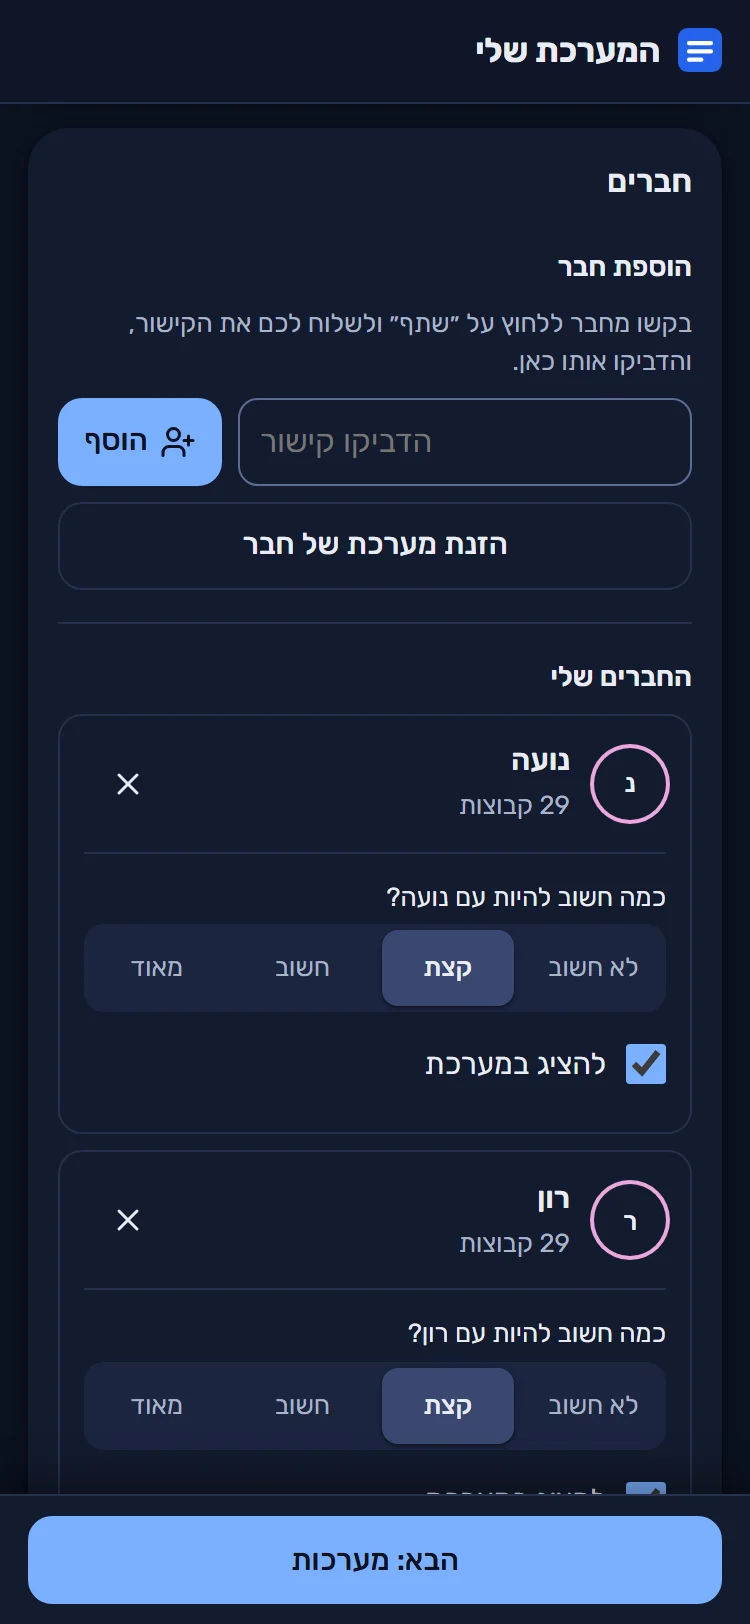
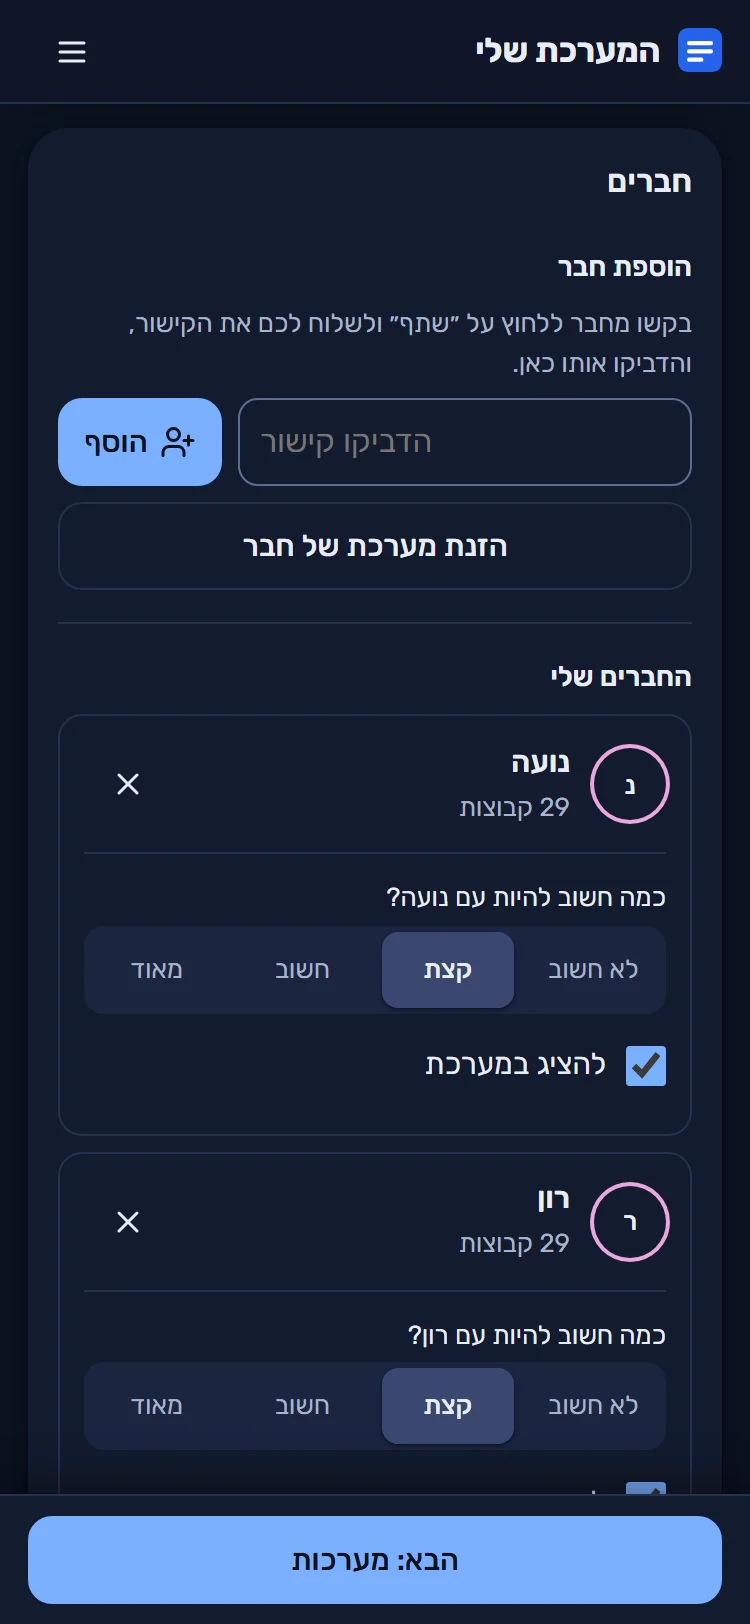
docs(media): fresh README and guide screenshots, with the build-or-edit choice and an edit proposal
- scripts/readme-shots.mjs: the first-visit shots pick "build" first (the mode choice now comes before the identity questions); new
  shots 00-start-mode-phone (the choice) and 09-edit-phone (semester A of alternative 1 with one course in a worse group, goal "fewer
  gaps", the proposal on Tuesday). The edit shot is refused unless the page shows exactly what the alt text says.
- All screenshots, the banner and the demo GIFs regenerated from the current code; ?v= bumped to 20261120.
- README shows the two new images; GUIDE gains the mode choice in "before you start" and a section on improving an existing timetable.

Reviewed by Codex (2 findings: alt quoting, a capture that could drift from its alt text; both fixed, re-check clean).

diff --git a/docs/GUIDE.md b/docs/GUIDE.md
@@ -8,16 +8,20 @@
 
 ## לפני שמתחילים: מסלול ושנה
 
-מאשרים את תנאי השימוש ועונים על שתי שאלות, כל אחת במסך משלה: באיזה מסלול (תוכנית, יום או ערב; שום מסלול לא נבחר מראש), ובאיזו שנת לימודים. "שינוי" מחזיר לבחירת המסלול.
+מאשרים את תנאי השימוש ובוחרים מה רוצים לעשות: לבנות מערכת חדשה, או לשפר מערכת שכבר יש לכם ([שיפור מערכת קיימת](#שיפור-מערכת-קיימת)). אפשר לעבור ביניהם בכל רגע מהתפריט ☰ בראש הדף. בבנייה עונים על שתי שאלות, כל אחת במסך משלה: באיזה מסלול (תוכנית, יום או ערב; שום מסלול לא נבחר מראש), ובאיזו שנת לימודים. "שינוי" מחזיר לבחירת המסלול.
 
 <p align="center">
 <picture>
-  <source media="(prefers-color-scheme: dark)" srcset="media/05-start-track-phone-dark.webp?v=20261102">
-  <img src="media/05-start-track-phone.webp?v=20261102" alt="שאלה 1 מתוך 2, מה המסלול שלך: כפתור גדול לכל תוכנית, יום וערב" width="240">
+  <source media="(prefers-color-scheme: dark)" srcset="media/00-start-mode-phone-dark.webp?v=20261120">
+  <img src="media/00-start-mode-phone.webp?v=20261120" alt="מה רוצים לעשות: לבנות מערכת חדשה, או לשפר מערכת שכבר יש לי" width="240">
 </picture>
 <picture>
-  <source media="(prefers-color-scheme: dark)" srcset="media/06-start-year-phone-dark.webp?v=20261102">
-  <img src="media/06-start-year-phone.webp?v=20261102" alt="שאלה 2 מתוך 2, באיזו שנה: המסלול שנבחר עם כפתור שינוי, וכפתורים לשנים א׳ עד ד׳" width="240">
+  <source media="(prefers-color-scheme: dark)" srcset="media/05-start-track-phone-dark.webp?v=20261120">
+  <img src="media/05-start-track-phone.webp?v=20261120" alt="שאלה 1 מתוך 2, מה המסלול שלך: כפתור גדול לכל תוכנית, יום וערב" width="240">
+</picture>
+<picture>
+  <source media="(prefers-color-scheme: dark)" srcset="media/06-start-year-phone-dark.webp?v=20261120">
+  <img src="media/06-start-year-phone.webp?v=20261120" alt="שאלה 2 מתוך 2, באיזו שנה: המסלול שנבחר עם כפתור שינוי, וכפתורים לשנים א׳ עד ד׳" width="240">
 </picture>
 </p>
 
@@ -28,8 +32,8 @@
 הפרופיל וההתקדמות בתואר, והצעה לייבא את גיליון הציונים הרשמי מהפורטל (PDF). הגיליון מסמן מה עברתם, במה נכשלתם ומאילו קורסים קיבלתם פטור. מי שמעדיף לוחץ "הזנה ידנית" ומסמן בעצמו את הקורסים, לפי שנה.
 
 <picture>
-  <source media="(prefers-color-scheme: dark)" srcset="media/07-start-entry-desktop-dark.webp?v=20261102">
-  <img src="media/07-start-entry-desktop.webp?v=20261102" alt="שלב 1, המצב שלי: כרטיס פרופיל, כרטיס התקדמות, ומתחתם השאלה איך מסמנים מה עברתם עם הכפתורים ייבוא מגיליון ציונים והזנה ידנית" width="720">
+  <source media="(prefers-color-scheme: dark)" srcset="media/07-start-entry-desktop-dark.webp?v=20261120">
+  <img src="media/07-start-entry-desktop.webp?v=20261120" alt="שלב 1, המצב שלי: כרטיס פרופיל, כרטיס התקדמות, ומתחתם השאלה איך מסמנים מה עברתם עם הכפתורים ייבוא מגיליון ציונים והזנה ידנית" width="720">
 </picture>
 
 ## שלב 2: קורסים
@@ -38,8 +42,8 @@
 
 <p align="center">
 <picture>
-  <source media="(prefers-color-scheme: dark)" srcset="media/08-courses-phone-dark.webp?v=20261102">
-  <img src="media/08-courses-phone.webp?v=20261102" alt="שלב 2, הקורסים שלי בטלפון: לכל קורס חובה, אולי או לא, בחירת סמסטר, וכמה קורסים הוא פותח" width="260">
+  <source media="(prefers-color-scheme: dark)" srcset="media/08-courses-phone-dark.webp?v=20261120">
+  <img src="media/08-courses-phone.webp?v=20261120" alt="שלב 2, הקורסים שלי בטלפון: לכל קורס חובה, אולי או לא, בחירת סמסטר, וכמה קורסים הוא פותח" width="260">
 </picture>
 </p>
 
@@ -49,8 +53,8 @@
 
 <p align="center">
 <picture>
-  <source media="(prefers-color-scheme: dark)" srcset="media/04-friends-phone-dark.webp?v=20261102">
-  <img src="media/04-friends-phone.webp?v=20261102" alt="החברים בשלב 3 בטלפון: שדה להדבקת קישור, כפתור להזנת מערכת של חבר, ושני חברים עם מידת החשיבות של כל אחד" width="260">
+  <source media="(prefers-color-scheme: dark)" srcset="media/04-friends-phone-dark.webp?v=20261120">
+  <img src="media/04-friends-phone.webp?v=20261120" alt="החברים בשלב 3 בטלפון: שדה להדבקת קישור, כפתור להזנת מערכת של חבר, ושני חברים עם מידת החשיבות של כל אחד" width="260">
 </picture>
 </p>
 
@@ -59,14 +63,14 @@
 המערכות נבנות מיד. מדפדפים בין החלופות עם החצים בראש הלוח, ולחיצה על שיעור פותחת פרטים ונעיצה. בטלפון רואים יום אחד בכל פעם.
 
 <picture>
-  <source media="(prefers-color-scheme: dark)" srcset="media/01-week-desktop-dark.webp?v=20261102">
-  <img src="media/01-week-desktop.webp?v=20261102" alt="שלב 4, מערכות: לוח שבועי של חלופה 1 מתוך 10 מתחת לסרגל ארבעת השלבים, שיעורים בצבע לכל קורס, ושיעורים משותפים עם חברים מסומנים בשמם" width="720">
+  <source media="(prefers-color-scheme: dark)" srcset="media/01-week-desktop-dark.webp?v=20261120">
+  <img src="media/01-week-desktop.webp?v=20261120" alt="שלב 4, מערכות: לוח שבועי של חלופה 1 מתוך 10 מתחת לסרגל ארבעת השלבים, שיעורים בצבע לכל קורס, ושיעורים משותפים עם חברים מסומנים בשמם" width="720">
 </picture>
 
 <p align="center">
 <picture>
-  <source media="(prefers-color-scheme: dark)" srcset="media/02-week-phone-dark.webp?v=20261102">
-  <img src="media/02-week-phone.webp?v=20261102" alt="המערכת בטלפון: יום אחד עם שיעורים משותפים עם חברים, החצים לחלופות בראש המסך וסרגל פעולות בתחתית" width="260">
+  <source media="(prefers-color-scheme: dark)" srcset="media/02-week-phone-dark.webp?v=20261120">
+  <img src="media/02-week-phone.webp?v=20261120" alt="המערכת בטלפון: יום אחד עם שיעורים משותפים עם חברים, החצים לחלופות בראש המסך וסרגל פעולות בתחתית" width="260">
 </picture>
 </p>
 
@@ -75,6 +79,23 @@
 **הפרדת הרצאה ותרגול:** מי שמסמן "להציג גם הרצאה ותרגול מופרדים" מקבל, אחרי החלופות הרגילות, גם חלופות שמפרידות ביניהם, ואז יכולות להיות יותר מ-10.
 
 **הצג לפי** נותן ארבע אפשרויות: מאוזן (לפי ההעדפות שלכם), הכי הרבה נ״ז, הכי הרבה עם חברים, ופותחת הכי הרבה קורסי המשך. הבחירה מסדרת את המערכות, אבל בתכנון שנה מלאה (שני סמסטרים) מערכת עם פחות קורסי חובה חסרים תמיד באה קודם. "הכי הרבה עם חברים" עובד רק כשיש חבר אחד לפחות שמוצג במערכת, ואחרת הסדר הוא "מאוזן".
+
+## שיפור מערכת קיימת
+
+למי שכבר יש מערכת ורוצה לשנות רק חלק ממנה, למשל לפנות יום או לסיים מוקדם יותר.
+
+1. **המערכת שלי:** טוענים את המערכת מקובץ האקסל של אפקה-נט, מ-PDF או צילום מהמתכנן של המכללה, או בוחרים קורסים וקבוצות ידנית. כל שורה שהכלי לא בטוח בה מופיעה "לבדיקה", וממשיכים כשכולן אושרו או תוקנו. מסמנים אם המערכת כבר רשומה במכללה.
+2. **שינויים:** לוחצים על שיעור כדי לסמן שהקורס יכול לזוז, להחליף קבוצה או להוריד אותו, ומוסיפים קורס אם רוצים. בוחרים מטרה (לפנות יום, פחות חלונות, לסיים עד שעה) ולוחצים "חפש הצעות". בלי סימון, הכלי מנסה להזיז כל קורס לבד.
+3. **הצעות:** כל הצעה אומרת מה הרווחתם ומה זז, ובלוח מסומן איפה השיעור היה ולאן עבר. "שמור הצעה" הופך אותה למערכת הנוכחית, "העתק שינויים" נותן מה להוסיף ומה להסיר באפקה-נט, ו"חזרה למערכת המקורית" מחזיר את מה שנטען.
+
+<p align="center">
+<picture>
+  <source media="(prefers-color-scheme: dark)" srcset="media/09-edit-phone-dark.webp?v=20261120">
+  <img src="media/09-edit-phone.webp?v=20261120" alt="שיפור מערכת קיימת בטלפון, יום ג׳ של הצעה 1 מתוך 1: חוזק חומרים 1 עובר מ-10:00 ל-13:00 והמקום הישן מסומן &quot;היה כאן&quot;. מתחת ללוח: 6 שעות פחות חלונות, קורס אחד זז, אותו מרצה, עם הכפתורים שמור הצעה והעתק שינויים" width="260">
+</picture>
+</p>
+
+ההצעה היא הצעה בלבד: ההרשמה נעשית באפקה-נט.
 
 ## כל היכולות
 

diff --git a/README.md b/README.md
@@ -2,8 +2,8 @@
 <div align="center">
 
 <picture>
-  <source media="(prefers-color-scheme: dark)" srcset="docs/media/banner-dark.webp?v=20261102">
-  <img src="docs/media/banner.webp?v=20261102" alt="המערכת שלי: כלי לא רשמי לתכנון מערכת שעות באפקה">
+  <source media="(prefers-color-scheme: dark)" srcset="docs/media/banner-dark.webp?v=20261120">
+  <img src="docs/media/banner.webp?v=20261120" alt="המערכת שלי: כלי לא רשמי לתכנון מערכת שעות באפקה">
 </picture>
 
 **בוחרים קורסים ומקבלים מערכות שעות מוכנות בלי חפיפות, לפי התקנון וההתקדמות האישית. מי שכבר יש לו מערכת יכול לבקש הצעות לשנות רק חלק ממנה.**
@@ -14,10 +14,10 @@
 [![data updated](https://img.shields.io/github/last-commit/dolev-benezri/lets_learn?path=web%2Fdata%2Fafeka%2Fstatus.json&label=data%20updated)](https://dolev-benezri.github.io/lets_learn/)
 
 <picture>
-  <source media="(prefers-reduced-motion: reduce) and (prefers-color-scheme: dark)" srcset="docs/media/02-week-phone-dark.webp?v=20261102">
-  <source media="(prefers-reduced-motion: reduce)" srcset="docs/media/02-week-phone.webp?v=20261102">
-  <source media="(prefers-color-scheme: dark)" srcset="docs/media/demo-dark.gif?v=20261102">
-  <img src="docs/media/demo.gif?v=20261102" alt="הדגמה באתר בטלפון: בוחרים קורס, עוברים להעדפות, מקבלים מערכת שבועית, מדפדפים בין החלופות, בוחרים יום ופותחים את מפת ההתקדמות" width="300">
+  <source media="(prefers-reduced-motion: reduce) and (prefers-color-scheme: dark)" srcset="docs/media/02-week-phone-dark.webp?v=20261120">
+  <source media="(prefers-reduced-motion: reduce)" srcset="docs/media/02-week-phone.webp?v=20261120">
+  <source media="(prefers-color-scheme: dark)" srcset="docs/media/demo-dark.gif?v=20261120">
+  <img src="docs/media/demo.gif?v=20261120" alt="הדגמה באתר בטלפון: בוחרים קורס, עוברים להעדפות, מקבלים מערכת שבועית, מדפדפים בין החלופות, בוחרים יום ופותחים את מפת ההתקדמות" width="300">
 </picture>
 
 </div>
@@ -33,9 +33,20 @@
 - **רשימה להרשמה.** מספרי הקבוצות להעתקה לאפקה-נט, עם קבוצות באותן שעות וקבוצות גיבוי שמתאימות לשאר המערכת, למקרה שקבוצה מתמלאת. משם גם מייצאים ליומן (`.ics`), כולל הבחינות.
 
 <picture>
-  <source media="(prefers-color-scheme: dark)" srcset="docs/media/03-map-desktop-dark.webp?v=20261102">
-  <img src="docs/media/03-map-desktop.webp?v=20261102" alt="מפת ההתקדמות: הקורסים לפי שנים עם קווים של דרישות קדם, מד התקדמות בתואר וחלונית קטנה של השבוע הנבחר" width="720">
+  <source media="(prefers-color-scheme: dark)" srcset="docs/media/03-map-desktop-dark.webp?v=20261120">
+  <img src="docs/media/03-map-desktop.webp?v=20261120" alt="מפת ההתקדמות: הקורסים לפי שנים עם קווים של דרישות קדם, מד התקדמות בתואר וחלונית קטנה של השבוע הנבחר" width="720">
 </picture>
+
+<p align="center">
+<picture>
+  <source media="(prefers-color-scheme: dark)" srcset="docs/media/00-start-mode-phone-dark.webp?v=20261120">
+  <img src="docs/media/00-start-mode-phone.webp?v=20261120" alt="הכניסה הראשונה בטלפון: מה רוצים לעשות, לבנות מערכת חדשה או לשפר מערכת שכבר יש לי" width="240">
+</picture>
+<picture>
+  <source media="(prefers-color-scheme: dark)" srcset="docs/media/09-edit-phone-dark.webp?v=20261120">
+  <img src="docs/media/09-edit-phone.webp?v=20261120" alt="שיפור מערכת קיימת בטלפון, יום ג׳ של הצעה 1 מתוך 1: חוזק חומרים 1 עובר מ-10:00 ל-13:00 והמקום הישן מסומן &quot;היה כאן&quot;. מתחת ללוח: 6 שעות פחות חלונות, קורס אחד זז, אותו מרצה, עם הכפתורים שמור הצעה והעתק שינויים" width="240">
+</picture>
+</p>
 
 [המדריך המלא וכל היכולות](docs/GUIDE.md)
 
